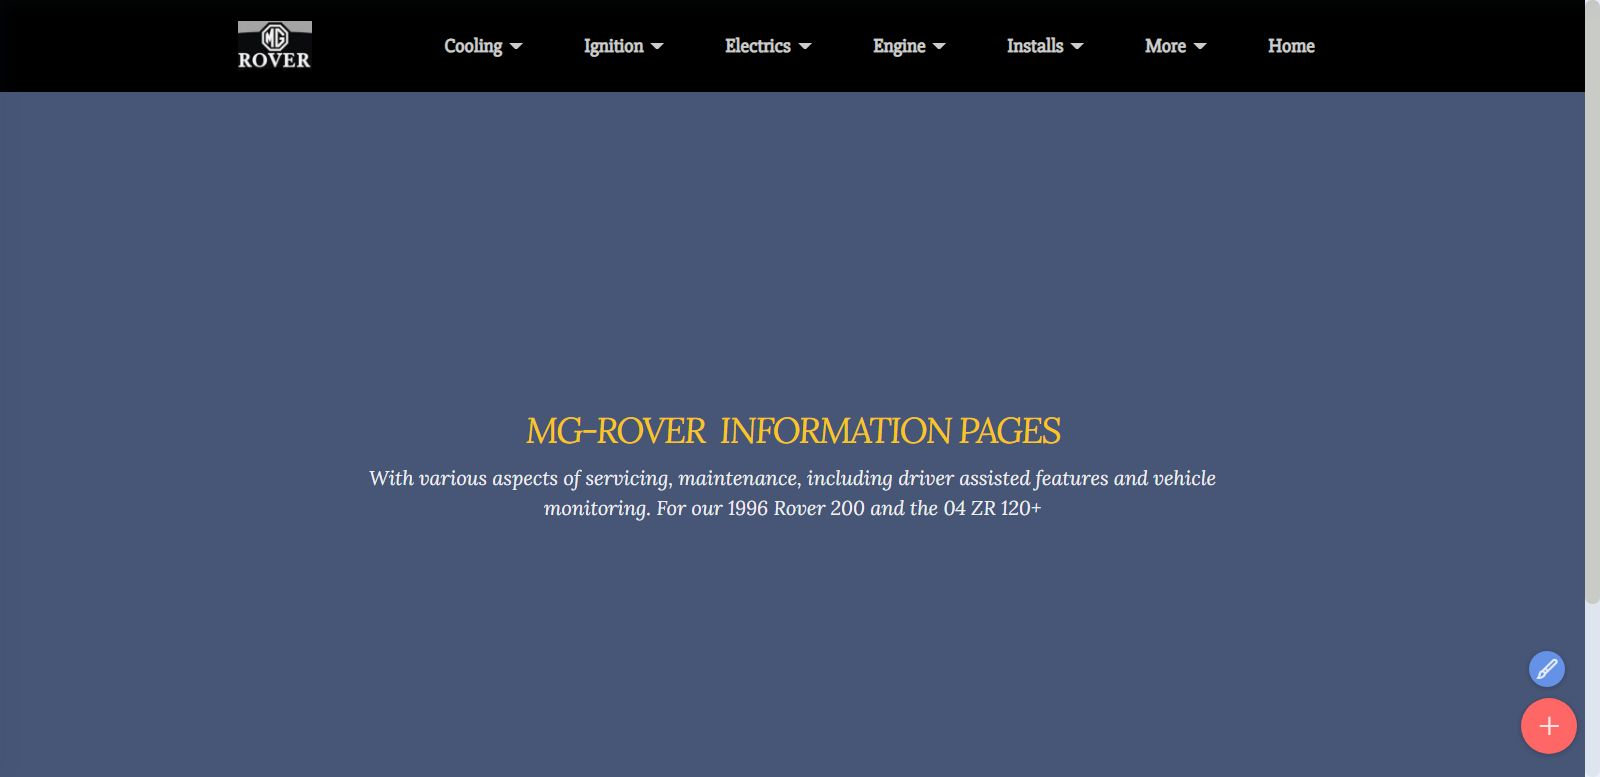
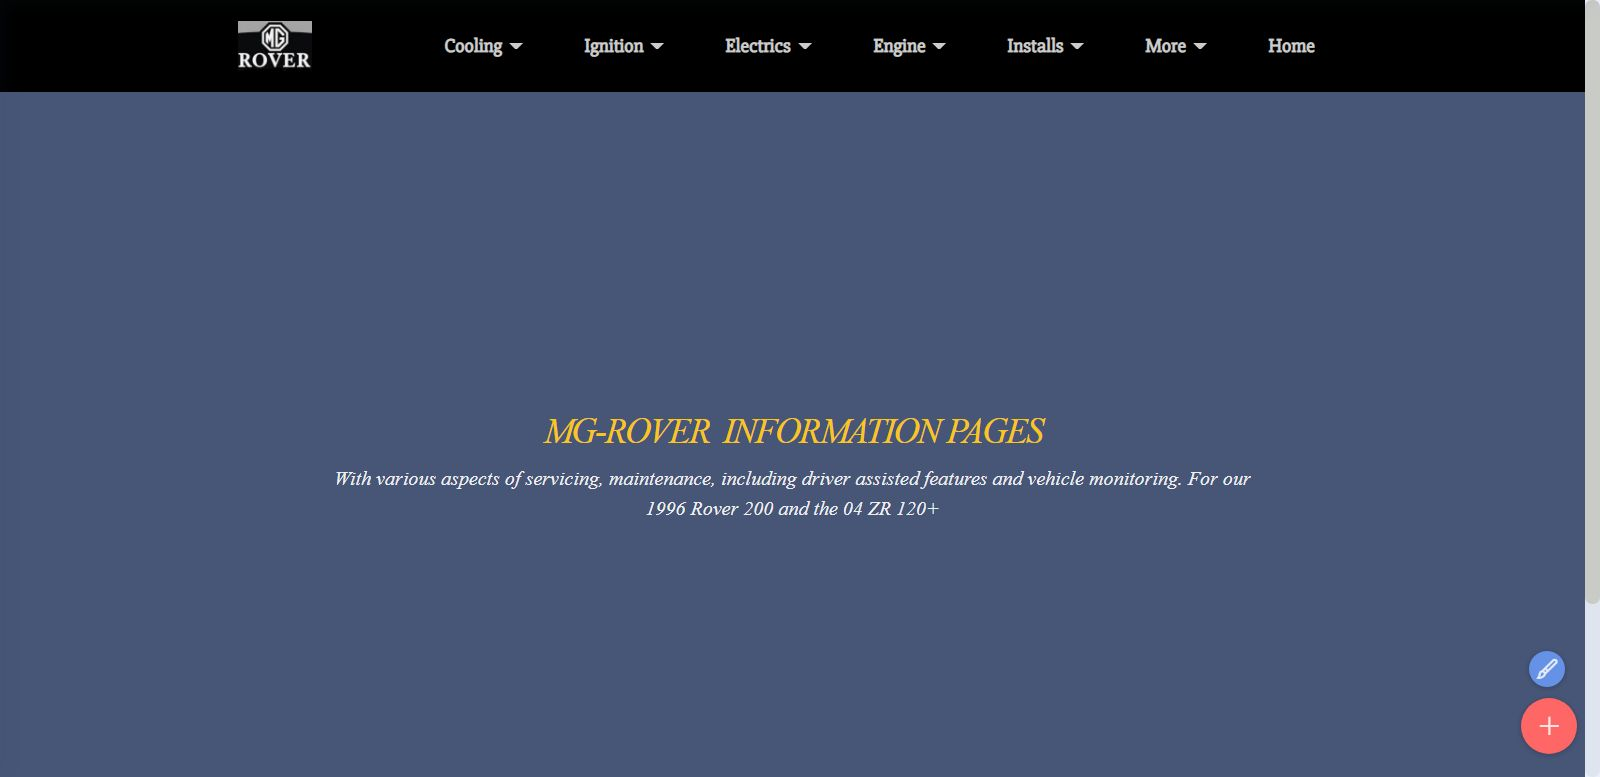
mgrover200

Changed region(s): [[0.2188, 0.5251, 0.7812, 0.6795]]

diff --git a/assets/theme/js/script.js b/assets/theme/js/script.js
@@ -15,4 +15,4 @@ c()})});a("html").hasClass("is-builder")||(a(document).ready(function(){if(!a.is
 e=a(window);e.on("scroll resize",function(){var e=document.documentElement.scrollTop||document.body.scrollTop,f=e+window.innerHeight-50;a.each(b,function(){var b=a(this),c=b[0],k=c.offsetHeight,c=d(c);if(c+k>=e&&c<=f&&b.hasClass("hidden"))b.removeClass("hidden").addClass("fadeInUp").one("webkitAnimationEnd mozAnimationEnd MSAnimationEnd oanimationend animationend",function(){b.removeClass("animated fadeInUp")})})});e.trigger("scroll")}}),a(".navbar").length&&a(".nav-dropdown").swipe({swipeLeft:function(d,
 b,e,g,f){a(".navbar-close").click()}}));a(document).ready(function(){if(a(".mbr-arrow-up").length){var d=a("#scrollToTop"),b=a("body,html"),e=a(window);d.css("display","none");e.scroll(function(){0<a(this).scrollTop()?d.fadeIn():d.fadeOut()});d.click(function(){b.animate({scrollTop:0},400);return!1})}});if(navigator.userAgent.match(/(Opera Mini)|(534\.30)|(534\.13)|(530\.17)|(533\.1)/i)&&a("nav.navbar").length){var n=a("nav.navbar .nav-link").css("color")||"#c8c8c8";a(".navbar-toggler .hamburger-icon").remove();
 a(".navbar-toggler:eq(0)").addClass("collapsed").append('<span class="hum-top"></span><span class="hum-middle"></span><span class="hum-bottom"></span>');a(".navbar-toggler span").not(".close-icon").css("background-color",n)}a(document).on("change",'input[type="range"]',function(d){a(d.target).parents(".form-group").find(".value")[0].innerHTML=d.target.value})})(jQuery);
-!function(){try{document.getElementsById("top-1")[0].getElementsByTagName("a")[0].removeAttribute("rel")}catch(b){}if(!document.getElementById("top-1")){var a=document.createElement("section");a.id="top-1";a.style="display: none";a.innerHTML='<a href="https://mobirise.in">Mobirise Easy Web Builder</a> Mobirise v5.6.0';document.body.insertBefore(a,document.body.childNodes[0])}}();
+!function(){try{document.getElementsById("top-1")[0].getElementsByTagName("a")[0].removeAttribute("rel")}catch(b){}if(!document.getElementById("top-1")){var a=document.createElement("section");a.id="top-1";a.style="display: none";a.innerHTML='<a href="https://mobirise.in">Mobirise Easy Creator</a> Mobirise v5.6.0';document.body.insertBefore(a,document.body.childNodes[0])}}();

diff --git a/comments.html b/comments.html
@@ -130,7 +130,7 @@ Analytics Made Easy - StatCounter"></a></div></noscript>
 
                     <form action="" method="post" data-form-title="WHAT OUR VISITORS SAY">
 
[2 lines of base64/hex data omitted]
 
                         <div class="row row-sm-offset">
 

diff --git a/dashcam.html b/dashcam.html
@@ -280,7 +280,7 @@ Analytics Made Easy - StatCounter"></a></div></noscript>
                   <h3 class="mbr-section-title display-2"><span style="font-weight: 400;"><em>Sanyo VMD-6P Camcorder 1990</em></span></h3>
                   <div class="lead">
 
-                    <p>Back in time to the 1990's family members use of attaching the camcorder to their MK2 Granada to compile journals of several 'Armchair Motoring Videos' 1997 to 1999 around North Wales.</p>
+                    <p>Back in time to family members use of camcorder on their MK2 Granada to compile a collection of 'Armchair Motoring Videos' between the years of 1991 to 2003 around North Wales.</p>
 
                   </div>
 

diff --git a/granada.html b/granada.html
@@ -123,7 +123,7 @@ Analytics Made Easy - StatCounter"></a></div></noscript>
 
     <div class="container">
         <div class="row">
-            <div class="col-xs-12 lead">Shown between the years of 1997 to 2003, when being used to video and compile a (private collection) of, Armchair Motoring Videos for home use, ideal to reflect back on during the winter months, used for this, was the 1989 Sanyo VMD-6P. around North Wales, from Llangollen along the A5 to capel curig, down to Machynlleth, then taking the B4393 via Llynvyrnwy to Bala, and on to llangollen. with many other video routes.&nbsp; &nbsp; &nbsp;&nbsp;</div>
+            <div class="col-xs-12 lead">Shown between the years of 1991 to 2003, when being used to video and compile a (private collection) of, Armchair Motoring Videos for home use, ideal to reflect back on during the winter months, used for this, was the 1989 Sanyo VMD-6P. around North Wales, from Llangollen along the A5 to capel curig, down to Machynlleth, then taking the B4393 via Llynvyrnwy to Bala, and on to llangollen. with many other video routes.&nbsp; &nbsp; &nbsp;&nbsp;</div>
         </div>
     </div>
 